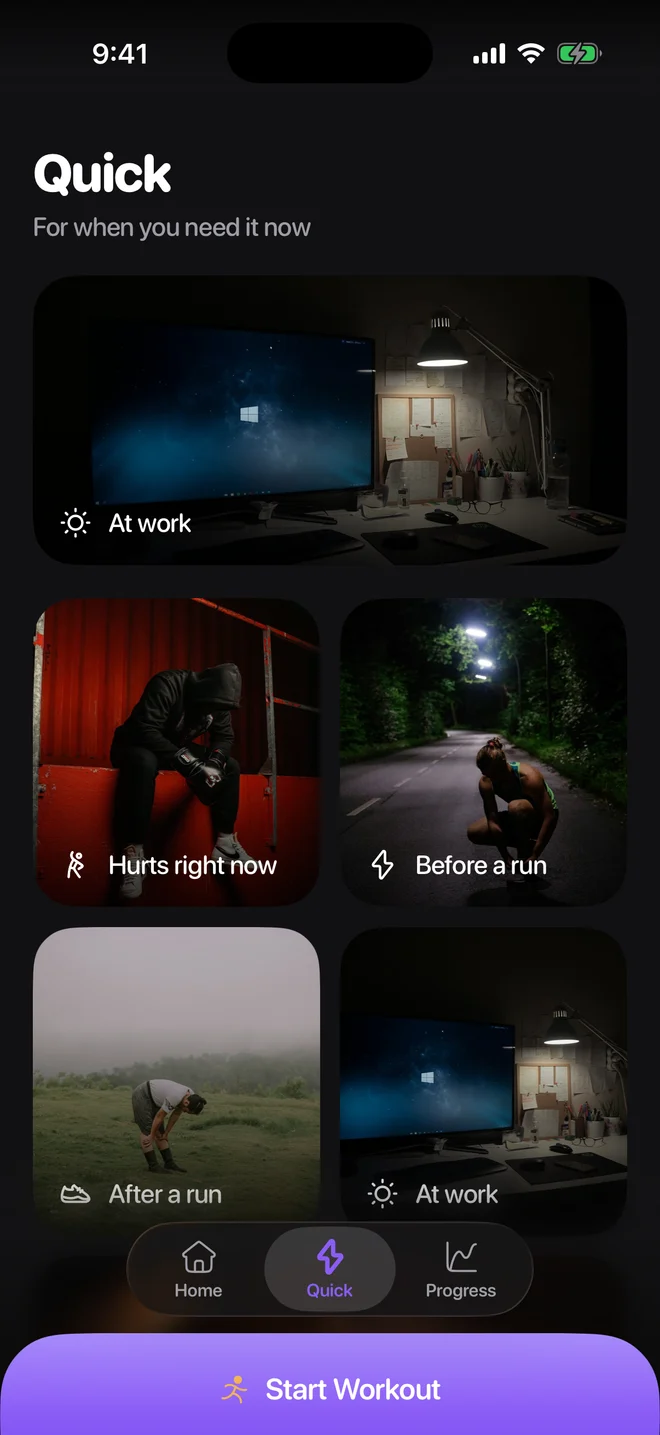
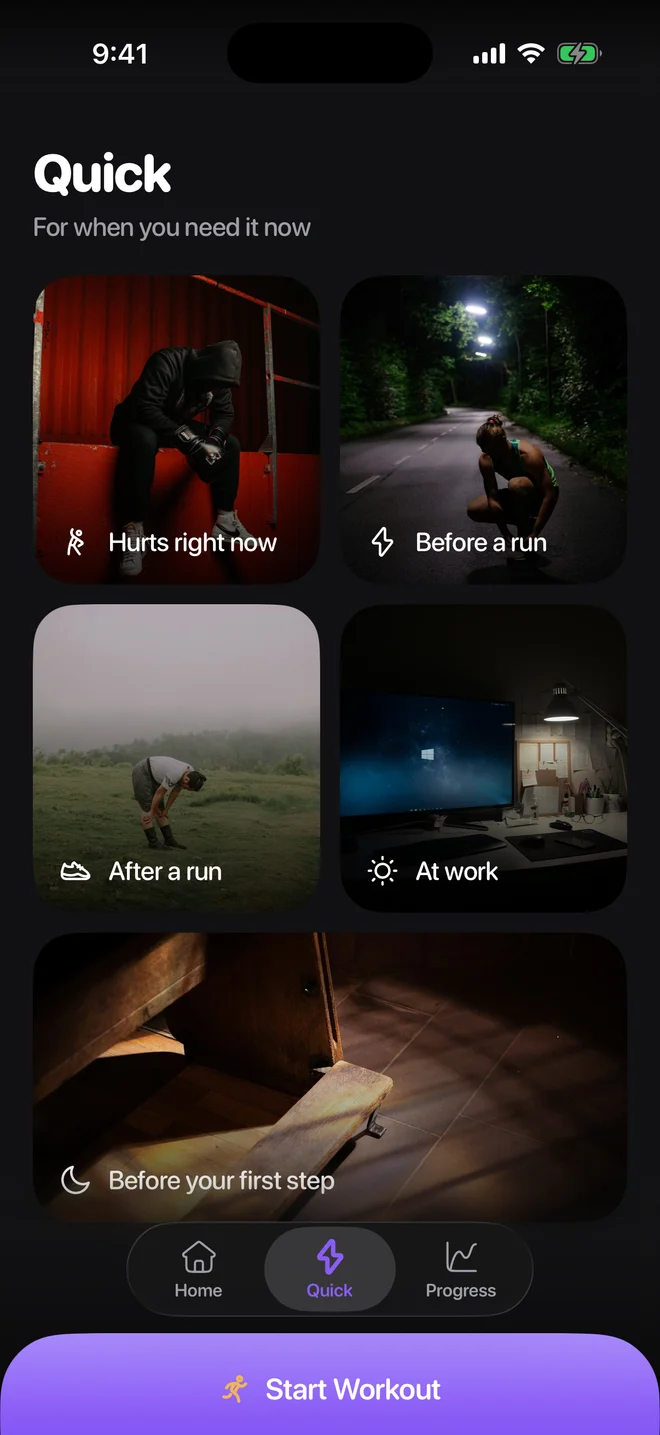
Site: retake the Quick screenshot with all five routines once

diff --git a/site/components/HomeEn.tsx b/site/components/HomeEn.tsx
@@ -138,7 +138,7 @@ const INSIDE = [
   },
   {
     src: '/app/07-quick.webp',
-    label: 'Walkito: quick routines for work, before and after a run, and when it hurts',
+    label: 'Walkito: quick routines for when it hurts, before and after a run, at work, and before your first step',
     caption: 'Quick routines for any moment',
   },
   {
